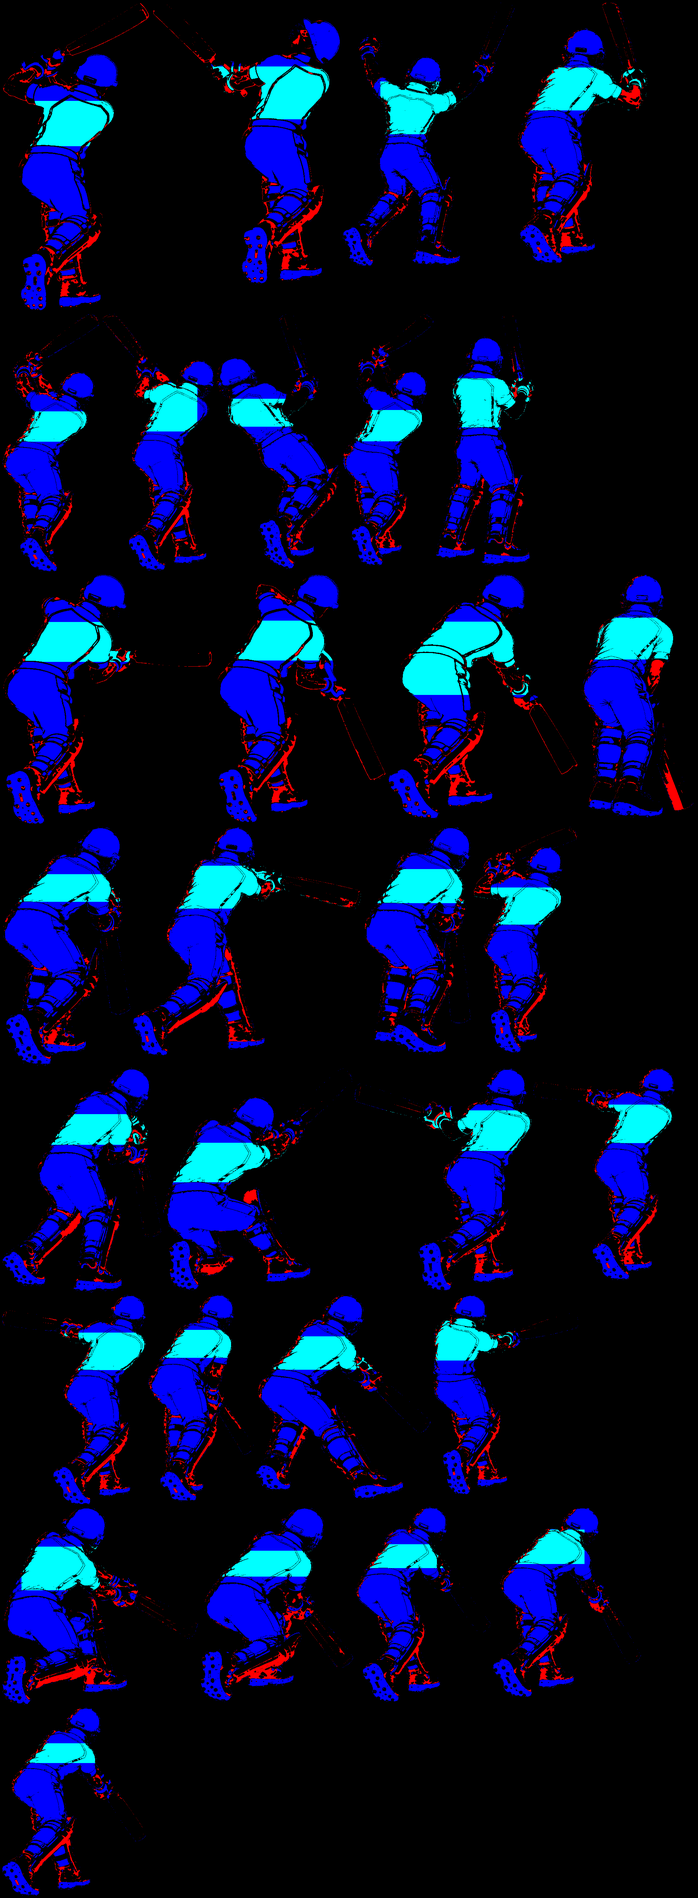
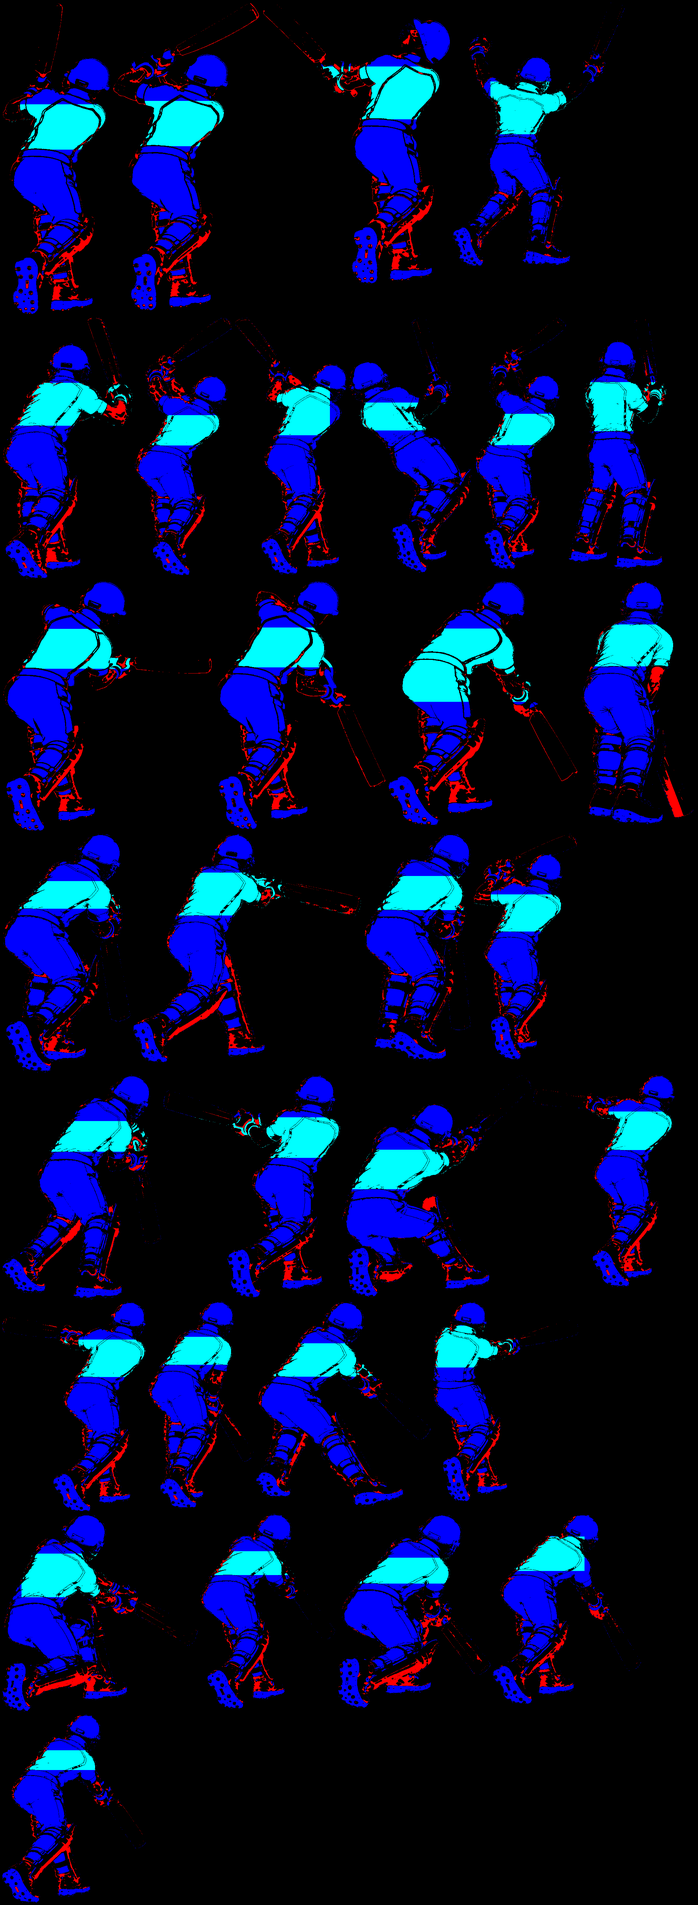
Batter: straight drive ends with the bat held high (new painted pose)
Claude-Session: https://claude.ai/code/session_01NK7tbrKg5PdA6fuyEUPXLd

diff --git a/js/kitsheets.js b/js/kitsheets.js
@@ -2,4 +2,4 @@
 // [x, y, w, h, feet x, feet y] in sheet order; place: the crest (front: [x, y, size, squash x,
 // squash y, tilt]) or the name-and-number print (back: [x, y, width, squash x, squash y, tilt,
 // name dx, dy, number dx, dy]) per frame; shading references for the repaint.
-export const KIT_SHEETS = {"front":{"frames":[[4,4,227,609,115.7,602],[235,4,204,603,108.5,596],[443,4,232,595,100.6,588],[679,4,181,601,90.4,594],[4,617,184,670,98.7,663],[192,617,204,657,107.8,650],[400,617,234,531,161.4,524],[638,617,200,532,104.9,525],[4,1291,201,557,90.7,550],[209,1291,216,579,105.9,572]],"place":[[153,167,36,1,1,0],[377,154,35,1,1,0],[591,154,35,1,1,0],[795,159,32,0.9,1,0],[142,863,31,0.95,1,5],[363,868,31,0.95,1,5],[549,761,34,1,0.85,0],[754,762,31,0.95,0.85,-5],[148,1439,35,1,1,0],[359,1454,36,1,1,0]],"refPx":580,"suit":[0.0376,0.2954,0.587],"trim":[0.5314,0.8456,0.9029],"skin":0.7306,"tones":[0.2955,0.2955,0.8423],"hair":{"beard_full":0.2269,"beard_goatee":0.1998,"beard_long":0.1906,"bun":0.2773,"buzz":0.2963,"cap":0.2815,"curly":0.2799,"dreads":0.2727,"long":0.2593,"messy":0.2999,"part":0.3383,"ponytail":0.2813,"spiky":0.2762},"size":[1024,1874]},"back":{"frames":[[4,4,223,593,111.2,586],[231,4,203,585,111.9,578],[438,4,226,585,125.1,578],[668,4,184,572,61.0,565],[4,601,172,628,61.9,621],[180,601,213,636,106.9,629],[397,601,240,538,146.8,531],[641,601,234,534,104.0,527],[4,1241,213,572,115.0,565],[221,1241,215,586,107.6,579]],"place":[[116.6,158.1,88.0,1.0,1.0,0.4,0,0,0,0],[343.2,149.0,88.0,1.0,1.0,0.8,0,0,0,0],[558.0,148.9,88.0,1.0,1.0,0.0,0,0,0,0],[738,149.2,84.5,0.88,1.0,2,-4,0,-2,0],[95.9,814.9,81.0,0.85,0.95,15.1,0,0,0,0],[306.5,801.6,81.0,0.85,0.95,10.9,0,0,0,0],[502,714.2,86.2,1.0,0.75,-6,0,0,0,0],[741,714.7,86.2,1.0,0.75,-6,0,0,0,0],[117.6,1385.2,88.0,1.0,1.0,0.4,0,0,0,0],[331.2,1393.8,89.8,1.0,1.0,0.8,0,0,0,0]],"refPx":563,"suit":[0.032,0.3087,0.5514],"trim":[0.5231,0.8489,0.9123],"skin":0.7332,"tones":[0.3087,0.3087,0.8455],"hair":{"bun":0.2553,"buzz":0.2918,"cap":0.2709,"curly":0.2702,"dreads":0.2718,"long":0.2647,"messy":0.2757,"part":0.2824,"ponytail":0.2667,"spiky":0.2812},"size":[1024,1831]},"spin-front":{"frames":[[4,4,182,471,90.8,464],[190,4,175,474,103.6,467],[369,4,172,473,91.2,466],[545,4,173,483,87.0,476],[722,4,165,515,62.2,508],[4,523,164,565,80.0,558],[172,523,152,564,71.3,544],[328,523,165,547,53.2,528],[497,523,255,478,85.7,461],[756,523,173,413,62.2,400],[4,1092,264,385,95.9,378],[272,1092,180,405,108.1,398],[456,1092,144,425,76.3,418],[604,1092,179,431,74.7,424],[787,1092,192,438,94.7,431]],"place":[[133,134,26,1,1,0],[324,133,24,1,1,0],[503,130,24,1,1,0],[663,127,24,1,1,0],[848,180,24,1,1,0],[145,711,22,0.9,1,0],[268,717,21,0.9,1,0],[456,715,21,0.9,1,0],[646,705,20,0.9,0.9,10],[872,632,20,0.9,0.85,0],[118,1191,19,0.9,0.85,0],[368,1192,21,1,0.9,0],[524,1199,22,1,0.95,0],[728,1206,26,1,1,0],[918,1204,26,1,1,0]],"refPx":441,"suit":[0.0299,0.3355,0.4715],"trim":[0.548,0.8593,0.9122],"skin":0.7273,"tones":[0.341,0.154,0.8608],"hair":{"beard_full":0.1972,"beard_goatee":0.2001,"beard_long":0.2064,"bun":0.2433,"buzz":0.241,"cap":0.2898,"curly":0.2653,"dreads":0.2535,"long":0.2468,"messy":0.2721,"part":0.2843,"ponytail":0.2781,"spiky":0.2609},"size":[1024,1534]},"spin-back":{"frames":[[4,4,205,533,100.3,526],[213,4,201,526,110.7,519],[418,4,214,510,122.2,503],[636,4,168,520,54.4,513],[808,4,157,568,64.3,561],[4,576,174,536,56.4,529],[182,576,168,528,67.2,521],[354,576,165,520,59.7,498],[523,576,204,489,64.8,467],[731,576,195,427,99.9,420],[4,1116,270,378,98.4,371],[278,1116,189,392,97.5,385],[471,1116,207,396,98.1,389],[682,1116,185,397,98.2,390],[4,1517,193,401,95.6,394]],"place":[[110,150,72.0,1,1,0,0,0,0,0],[326,138,72.0,1,1,0,0,0,0,0],[539,138,72.0,0.95,1,0,0,0,0,0],[711,141,72.0,0.95,1,11,0,0,0,0],[894,208,72.0,0.95,1,5,0,0,0,0],[100,760,72.0,0.95,1,10,0,0,0,0],[266,753,72.0,0.95,1,10,0,0,0,0],[451,742,72.0,0.95,0.95,18,0,0,0,0],[637,718,72.0,0.95,0.8,20,0,0,0,0],[853,677,72.0,0.95,0.8,12,0,0,0,0],[115,1188,72.0,1,0.7,-6,0,0,0,0],[362,1201,72.0,1,0.75,-10,0,0,0,0],[558,1210,72.0,1,0.85,-6,0,0,0,0],[773,1218,72.0,1,1,0,0,0,0,0],[104,1643,72.0,1,1,0,0,0,0,0]],"refPx":502,"suit":[0.0255,0.3304,0.4621],"trim":[0.5425,0.8472,0.9129],"skin":0.735,"tones":[0.3359,0.1507,0.8497],"hair":{"bun":0.2768,"buzz":0.2522,"cap":0.3009,"curly":0.2524,"dreads":0.3474,"long":0.2919,"messy":0.2526,"part":0.2321,"ponytail":0.2864,"spiky":0.2346},"size":[1024,1922]},"bat-back":{"frames":[[4,4,248,534,127.4,527],[256,4,291,536,114.4,529],[551,4,247,535,126.7,528],[802,4,283,538,117.1,531],[1089,4,237,534,113.5,527],[1330,4,310,635,102.2,628],[4,643,438,523,123.2,516],[446,643,394,523,242.9,516],[844,643,398,524,207.5,517],[1246,643,243,468,91.2,461],[1493,643,229,458,81.5,451],[1726,643,197,456,73.9,449],[4,1171,213,517,108.2,510],[221,1171,264,515,121.3,508],[489,1171,381,501,205.5,494],[874,1171,329,471,80.2,464],[1207,1171,201,510,95.2,503],[1412,1171,161,645,75.2,638],[1577,1171,302,505,119.4,498],[4,1820,340,405,92.8,398],[348,1820,373,419,82.2,412],[725,1820,235,523,91.4,516],[964,1820,195,665,107.2,658],[1163,1820,336,523,170.4,516],[1503,1820,388,542,201.0,535],[4,2489,364,523,108.1,516]],"place":[[110.5,145,87.2,1,1,16.3,0,0,0,0],[366.5,144,89.6,1,1,21.6,0,0,0,0],[660.0,146,86.4,1,1,17.1,0,0,0,0],[905.0,148,87.2,1,1,18.6,0,0,0,0],[1199.0,145,88.0,1,1,19.2,0,0,0,0],[1473.0,237,91.2,1,1,14.7,0,0,0,0],[157.0,762,93.6,1,1,3.2,0,0,0,0],[761.5,781,94.4,1,1,10.1,0,0,0,0],[1171.0,781,90.4,1,1,9.6,0,0,0,0],[1355.0,760,84.0,1,1,1.5,0,0,0,0],[1592.0,760,91.2,1,1,-0.9,0,0,0,0],[1815.0,767,96.0,1,1,3.4,0,0,0,0],[122.5,1293,85.6,1,1,16.8,0,0,0,0],[324.5,1303,96.8,1,1,4.1,0,0,0,0],[597.0,1301,95.2,1,1,8.8,0,0,0,0],[972.5,1302,96.0,1,1,7.3,0,0,0,0],[1324.5,1307,92.0,1,1,6.0,0,0,0,0],[1483.5,1450,92.0,1,1,1.6,0,0,0,0],[1760.5,1408,87.2,1,1,6.1,0,0,0,0],[114.0,1958,103.2,1,1,6.5,0,0,0,0],[504.5,1956,94.4,1,1,-0.9,0,0,0,0],[824.5,1941,94.4,1,1,7.8,0,0,0,0],[1083.5,2081,88.0,1,1,9.2,0,0,0,0],[1261.5,1955,98.4,1,1,11.6,0,0,0,0],[1822.0,1972,83.2,1,1,11.6,0,0,0,0],[88.0,2611,92.0,1,1,0.4,0,0,0,0]],"refPx":522,"suit":[0.0269,0.3529,0.5925],"trim":[0.5451,0.8592,0.9209],"skin":0.6414,"tones":[0.3586,0.2,0.8608],"hair":{},"size":[2048,3016]},"field":{"frames":[[4,4,425,453,214.6,446],[433,4,376,459,180.8,452],[813,4,407,455,200.5,448],[1224,4,294,543,132.5,536],[1522,4,266,555,119.8,548],[4,563,282,545,146.0,538],[290,563,323,540,153.3,533],[617,563,416,478,255.7,471],[1037,563,399,471,239.2,464],[1440,563,416,479,226.6,472],[4,1112,498,472,240.3,465],[506,1112,334,461,194.5,454],[844,1112,389,467,201.6,460],[1237,1112,290,468,134.9,461],[1531,1112,237,468,118.4,461],[4,1588,331,343,227.7,336],[339,1588,473,278,360.6,271],[816,1588,480,172,199.7,165],[1300,1588,337,172,238.3,165],[4,1935,444,498,209.6,491],[452,1935,293,588,174.3,581],[749,1935,424,503,212.8,496],[1177,1935,325,396,172.6,389],[1506,1935,354,418,177.7,411],[4,2527,358,410,163.6,403],[366,2527,433,269,300.7,262],[803,2527,313,384,165.7,377],[1120,2527,314,393,165.6,386],[1438,2527,418,382,217.0,375],[4,2941,455,291,300.0,284],[463,2941,279,574,142.6,567],[746,2941,283,525,142.6,518],[1033,2941,330,573,155.7,566],[1367,2941,288,573,148.0,566],[1659,2941,234,574,118.0,567],[4,3519,232,571,109.8,564],[240,3519,219,572,103.9,565],[463,3519,236,568,117.4,561],[703,3519,228,575,111.3,568],[935,3519,240,570,118.5,563],[1179,3519,238,570,119.8,563],[1421,3519,223,572,107.1,565]],"place":[[10,10,0,1,1,0,0,0,0,0],[439,10,0,1,1,0,0,0,0,0],[1017.0,139,100.8,1,1,1.9,0,0,0,0],[1394.5,134,101.6,1,1,22.4,0,0,0,0],[1652.0,138,104.0,1,1,11.0,0,0,0,0],[174.0,696,97.6,1,1,7.0,0,0,0,0],[458.5,691,98.4,1,1,11.3,0,0,0,0],[623,569,0,1,1,0,0,0,0,0],[1043,569,0,1,1,0,0,0,0,0],[1446,569,0,1,1,0,0,0,0,0],[10,1118,0,1,1,0,0,0,0,0],[512,1118,0,1,1,0,0,0,0,0],[850,1117,0,1,1,0,0,0,0,0],[1405.0,1231,90.4,1,1,15.0,0,0,0,0],[1673.0,1223,85.6,1,1,3.9,0,0,0,0],[10,1594,0,1,1,0,0,0,0,0],[345,1594,0,1,1,0,0,0,0,0],[822,1594,0,1,1,0,0,0,0,0],[1306,1594,0,1,1,0,0,0,0,0],[10,1941,0,1,1,0,0,0,0,0],[458,1941,0,1,1,0,0,0,0,0],[755,1941,0,1,1,0,0,0,0,0],[1183,1941,0,1,1,0,0,0,0,0],[1512,1941,0,1,1,0,0,0,0,0],[10,2533,0,1,1,0,0,0,0,0],[372,2533,0,1,1,0,0,0,0,0],[973.5,2643,76.8,1,1,1.8,0,0,0,0],[1296.5,2644,77.6,1,1,8.0,0,0,0,0],[1690.0,2629,61.6,1,1,16.7,0,0,0,0],[10,2947,0,1,1,0,0,0,0,0],[469,2947,0,1,1,0,0,0,0,0],[752,2947,0,1,1,0,0,0,0,0],[1039,2947,0,1,1,0,0,0,0,0],[1373,2947,0,1,1,0,0,0,0,0],[1665,2947,0,1,1,0,0,0,0,0],[10,3525,0,1,1,0,0,0,0,0],[246,3525,0,1,1,0,0,0,0,0],[469,3525,0,1,1,0,0,0,0,0],[709,3525,0,1,1,0,0,0,0,0],[941,3525,0,1,1,0,0,0,0,0],[1185,3525,0,1,1,0,0,0,0,0],[1427,3525,0,1,1,0,0,0,0,0]],"refPx":441,"suit":[0.0644,0.3368,0.6113],"trim":[0.5563,0.8516,0.9209],"skin":0.7707,"tones":[0.3422,0.2038,0.8539],"hair":{},"size":[2048,4098]},"bat-paint":{"frames":[[1516,6,383,768,104.4,759.3],[635,920,363,749,196.1,740.5],[1278,920,290,740,166.7,731.6],[1387,2426,309,663,110.5,655.4],[6,5009,423,554,93.0,547.5],[6,920,288,759,123.8,749.4],[1043,4422,397,572,93.0,565.3],[1004,920,268,740,87.6,731.6],[6,3799,423,617,231.8,608.8],[300,920,329,754,180.4,745.5],[435,3799,310,607,103.3,599.9],[1565,3134,415,622,247.8,614.8],[1040,3134,519,654,269.9,645.5],[6,2426,377,702,99.8,694.0],[1066,2426,315,668,181.6,659.3],[6,3134,467,659,242.0,651.4],[751,3799,512,601,324.2,594.0],[1446,4422,435,558,77.9,551.4],[389,2426,671,672,148.8,664.3],[1269,3799,428,587,91.8,580.1],[587,4422,450,572,56.9,565.3],[6,4422,575,581,50.2,573.2],[479,3134,555,654,126.1,644.5],[1005,6,505,777,201.6,766.2],[1139,1685,558,718,100.1,708.8],[630,1685,503,730,92.1,720.7],[6,6,434,908,164.9,895.9],[6,1685,618,735,93.6,724.6],[446,6,553,830,370.9,820.7],[1703,1685,331,714,169.3,705.9]],"place":[[1691.0,261.0,69.1,1,1,1.8,0,0,0,0],[753.5,1211.0,52.6,1,1,-2.0,0,0,0,0],[1417.0,1182.0,51.8,1,1,1.0,0,0,0,0],[1547.5,2658.5,54.0,1,1,1.2,0,0,0,0],[189.5,5144.0,56.9,1,1,3.8,0,0,0,0],[160.5,1251.5,51.1,1,1,1.6,0,0,0,0],[1195.5,4566.0,58.3,1,1,2.3,0,0,0,0],[1148.5,1249.0,49.7,1,1,1.1,0,0,0,0],[327.5,3965.0,54.0,1,1,1.0,0,0,0,0],[509.5,1194.5,46.8,1,1,-1.0,0,0,0,0],[590.5,3943.0,56.9,1,1,2.2,0,0,0,0],[1877.0,3297.5,50.4,1,1,1.3,0,0,0,0],[1447.5,3317.5,62.6,1,1,-0.4,0,0,0,0],[209.0,2605.5,80.6,1,1,4.8,0,0,0,0],[1246.0,2600.0,72.0,1,1,2.7,0,0,0,0],[285.5,3314.0,75.6,1,1,2.6,0,0,0,0],[943.5,3970.0,68.4,1,1,4.1,0,0,0,0],[1635.0,4538.5,51.8,1,1,2.3,0,0,0,0],[650.0,2603.0,66.2,1,1,1.7,0,0,0,0],[1354.0,3930.5,49.0,1,1,2.1,0,0,0,0],[799.5,4588.0,75.6,1,1,3.6,0,0,0,0],[171.0,4602.0,66.2,1,1,1.7,0,0,0,0],[647.5,3411.0,74.2,1,1,3.0,0,0,0,0],[1209.0,316.5,56.2,1,1,2.5,0,0,0,0],[1334.0,1931.5,90.7,1,1,8.7,0,0,0,0],[835.5,1879.5,74.2,1,1,3.5,0,0,0,0],[212.5,362.5,62.6,1,1,1.4,0,0,0,0],[214.0,1883.5,77.8,1,1,2.9,0,0,0,0],[843.5,272.5,65.5,1,1,-0.3,0,0,0,0],[1864.0,1873.5,67.7,1,1,1.9,0,0,0,0]],"names":{"backlift":0,"leave1":1,"leave2":2,"drive1":3,"drive2":4,"drive3":5,"straight1":6,"straight2":7,"ondrive1":8,"ondrive2":9,"cover1":10,"pull1":11,"pull2":12,"def1":13,"def2":14,"def3":15,"cut1":16,"cut2":17,"cut3":18,"cut4":19,"rsweep1":20,"rsweep2":21,"rsweep3":22,"celebrate":23,"cover0":24,"cover2":25,"cover3":26,"cutflat":27,"loft1":28,"ready":29},"refPx":705.4,"suit":[0.0269,0.3529,0.5925],"trim":[0.5451,0.8592,0.9209],"skin":0.6519,"tones":[0.3157,0.15785,0.8487],"hair":{},"size":[2048,5569],"hsv":[[216.3835,0.9944,0.8569],[216.3835,0.9944,0.8569],[55.8098,0.988,0.9882]]}};
+export const KIT_SHEETS = {"front":{"frames":[[4,4,227,609,115.7,602],[235,4,204,603,108.5,596],[443,4,232,595,100.6,588],[679,4,181,601,90.4,594],[4,617,184,670,98.7,663],[192,617,204,657,107.8,650],[400,617,234,531,161.4,524],[638,617,200,532,104.9,525],[4,1291,201,557,90.7,550],[209,1291,216,579,105.9,572]],"place":[[153,167,36,1,1,0],[377,154,35,1,1,0],[591,154,35,1,1,0],[795,159,32,0.9,1,0],[142,863,31,0.95,1,5],[363,868,31,0.95,1,5],[549,761,34,1,0.85,0],[754,762,31,0.95,0.85,-5],[148,1439,35,1,1,0],[359,1454,36,1,1,0]],"refPx":580,"suit":[0.0376,0.2954,0.587],"trim":[0.5314,0.8456,0.9029],"skin":0.7306,"tones":[0.2955,0.2955,0.8423],"hair":{"beard_full":0.2269,"beard_goatee":0.1998,"beard_long":0.1906,"bun":0.2773,"buzz":0.2963,"cap":0.2815,"curly":0.2799,"dreads":0.2727,"long":0.2593,"messy":0.2999,"part":0.3383,"ponytail":0.2813,"spiky":0.2762},"size":[1024,1874]},"back":{"frames":[[4,4,223,593,111.2,586],[231,4,203,585,111.9,578],[438,4,226,585,125.1,578],[668,4,184,572,61.0,565],[4,601,172,628,61.9,621],[180,601,213,636,106.9,629],[397,601,240,538,146.8,531],[641,601,234,534,104.0,527],[4,1241,213,572,115.0,565],[221,1241,215,586,107.6,579]],"place":[[116.6,158.1,88.0,1.0,1.0,0.4,0,0,0,0],[343.2,149.0,88.0,1.0,1.0,0.8,0,0,0,0],[558.0,148.9,88.0,1.0,1.0,0.0,0,0,0,0],[738,149.2,84.5,0.88,1.0,2,-4,0,-2,0],[95.9,814.9,81.0,0.85,0.95,15.1,0,0,0,0],[306.5,801.6,81.0,0.85,0.95,10.9,0,0,0,0],[502,714.2,86.2,1.0,0.75,-6,0,0,0,0],[741,714.7,86.2,1.0,0.75,-6,0,0,0,0],[117.6,1385.2,88.0,1.0,1.0,0.4,0,0,0,0],[331.2,1393.8,89.8,1.0,1.0,0.8,0,0,0,0]],"refPx":563,"suit":[0.032,0.3087,0.5514],"trim":[0.5231,0.8489,0.9123],"skin":0.7332,"tones":[0.3087,0.3087,0.8455],"hair":{"bun":0.2553,"buzz":0.2918,"cap":0.2709,"curly":0.2702,"dreads":0.2718,"long":0.2647,"messy":0.2757,"part":0.2824,"ponytail":0.2667,"spiky":0.2812},"size":[1024,1831]},"spin-front":{"frames":[[4,4,182,471,90.8,464],[190,4,175,474,103.6,467],[369,4,172,473,91.2,466],[545,4,173,483,87.0,476],[722,4,165,515,62.2,508],[4,523,164,565,80.0,558],[172,523,152,564,71.3,544],[328,523,165,547,53.2,528],[497,523,255,478,85.7,461],[756,523,173,413,62.2,400],[4,1092,264,385,95.9,378],[272,1092,180,405,108.1,398],[456,1092,144,425,76.3,418],[604,1092,179,431,74.7,424],[787,1092,192,438,94.7,431]],"place":[[133,134,26,1,1,0],[324,133,24,1,1,0],[503,130,24,1,1,0],[663,127,24,1,1,0],[848,180,24,1,1,0],[145,711,22,0.9,1,0],[268,717,21,0.9,1,0],[456,715,21,0.9,1,0],[646,705,20,0.9,0.9,10],[872,632,20,0.9,0.85,0],[118,1191,19,0.9,0.85,0],[368,1192,21,1,0.9,0],[524,1199,22,1,0.95,0],[728,1206,26,1,1,0],[918,1204,26,1,1,0]],"refPx":441,"suit":[0.0299,0.3355,0.4715],"trim":[0.548,0.8593,0.9122],"skin":0.7273,"tones":[0.341,0.154,0.8608],"hair":{"beard_full":0.1972,"beard_goatee":0.2001,"beard_long":0.2064,"bun":0.2433,"buzz":0.241,"cap":0.2898,"curly":0.2653,"dreads":0.2535,"long":0.2468,"messy":0.2721,"part":0.2843,"ponytail":0.2781,"spiky":0.2609},"size":[1024,1534]},"spin-back":{"frames":[[4,4,205,533,100.3,526],[213,4,201,526,110.7,519],[418,4,214,510,122.2,503],[636,4,168,520,54.4,513],[808,4,157,568,64.3,561],[4,576,174,536,56.4,529],[182,576,168,528,67.2,521],[354,576,165,520,59.7,498],[523,576,204,489,64.8,467],[731,576,195,427,99.9,420],[4,1116,270,378,98.4,371],[278,1116,189,392,97.5,385],[471,1116,207,396,98.1,389],[682,1116,185,397,98.2,390],[4,1517,193,401,95.6,394]],"place":[[110,150,72.0,1,1,0,0,0,0,0],[326,138,72.0,1,1,0,0,0,0,0],[539,138,72.0,0.95,1,0,0,0,0,0],[711,141,72.0,0.95,1,11,0,0,0,0],[894,208,72.0,0.95,1,5,0,0,0,0],[100,760,72.0,0.95,1,10,0,0,0,0],[266,753,72.0,0.95,1,10,0,0,0,0],[451,742,72.0,0.95,0.95,18,0,0,0,0],[637,718,72.0,0.95,0.8,20,0,0,0,0],[853,677,72.0,0.95,0.8,12,0,0,0,0],[115,1188,72.0,1,0.7,-6,0,0,0,0],[362,1201,72.0,1,0.75,-10,0,0,0,0],[558,1210,72.0,1,0.85,-6,0,0,0,0],[773,1218,72.0,1,1,0,0,0,0,0],[104,1643,72.0,1,1,0,0,0,0,0]],"refPx":502,"suit":[0.0255,0.3304,0.4621],"trim":[0.5425,0.8472,0.9129],"skin":0.735,"tones":[0.3359,0.1507,0.8497],"hair":{"bun":0.2768,"buzz":0.2522,"cap":0.3009,"curly":0.2524,"dreads":0.3474,"long":0.2919,"messy":0.2526,"part":0.2321,"ponytail":0.2864,"spiky":0.2346},"size":[1024,1922]},"bat-back":{"frames":[[4,4,248,534,127.4,527],[256,4,291,536,114.4,529],[551,4,247,535,126.7,528],[802,4,283,538,117.1,531],[1089,4,237,534,113.5,527],[1330,4,310,635,102.2,628],[4,643,438,523,123.2,516],[446,643,394,523,242.9,516],[844,643,398,524,207.5,517],[1246,643,243,468,91.2,461],[1493,643,229,458,81.5,451],[1726,643,197,456,73.9,449],[4,1171,213,517,108.2,510],[221,1171,264,515,121.3,508],[489,1171,381,501,205.5,494],[874,1171,329,471,80.2,464],[1207,1171,201,510,95.2,503],[1412,1171,161,645,75.2,638],[1577,1171,302,505,119.4,498],[4,1820,340,405,92.8,398],[348,1820,373,419,82.2,412],[725,1820,235,523,91.4,516],[964,1820,195,665,107.2,658],[1163,1820,336,523,170.4,516],[1503,1820,388,542,201.0,535],[4,2489,364,523,108.1,516]],"place":[[110.5,145,87.2,1,1,16.3,0,0,0,0],[366.5,144,89.6,1,1,21.6,0,0,0,0],[660.0,146,86.4,1,1,17.1,0,0,0,0],[905.0,148,87.2,1,1,18.6,0,0,0,0],[1199.0,145,88.0,1,1,19.2,0,0,0,0],[1473.0,237,91.2,1,1,14.7,0,0,0,0],[157.0,762,93.6,1,1,3.2,0,0,0,0],[761.5,781,94.4,1,1,10.1,0,0,0,0],[1171.0,781,90.4,1,1,9.6,0,0,0,0],[1355.0,760,84.0,1,1,1.5,0,0,0,0],[1592.0,760,91.2,1,1,-0.9,0,0,0,0],[1815.0,767,96.0,1,1,3.4,0,0,0,0],[122.5,1293,85.6,1,1,16.8,0,0,0,0],[324.5,1303,96.8,1,1,4.1,0,0,0,0],[597.0,1301,95.2,1,1,8.8,0,0,0,0],[972.5,1302,96.0,1,1,7.3,0,0,0,0],[1324.5,1307,92.0,1,1,6.0,0,0,0,0],[1483.5,1450,92.0,1,1,1.6,0,0,0,0],[1760.5,1408,87.2,1,1,6.1,0,0,0,0],[114.0,1958,103.2,1,1,6.5,0,0,0,0],[504.5,1956,94.4,1,1,-0.9,0,0,0,0],[824.5,1941,94.4,1,1,7.8,0,0,0,0],[1083.5,2081,88.0,1,1,9.2,0,0,0,0],[1261.5,1955,98.4,1,1,11.6,0,0,0,0],[1822.0,1972,83.2,1,1,11.6,0,0,0,0],[88.0,2611,92.0,1,1,0.4,0,0,0,0]],"refPx":522,"suit":[0.0269,0.3529,0.5925],"trim":[0.5451,0.8592,0.9209],"skin":0.6414,"tones":[0.3586,0.2,0.8608],"hair":{},"size":[2048,3016]},"field":{"frames":[[4,4,425,453,214.6,446],[433,4,376,459,180.8,452],[813,4,407,455,200.5,448],[1224,4,294,543,132.5,536],[1522,4,266,555,119.8,548],[4,563,282,545,146.0,538],[290,563,323,540,153.3,533],[617,563,416,478,255.7,471],[1037,563,399,471,239.2,464],[1440,563,416,479,226.6,472],[4,1112,498,472,240.3,465],[506,1112,334,461,194.5,454],[844,1112,389,467,201.6,460],[1237,1112,290,468,134.9,461],[1531,1112,237,468,118.4,461],[4,1588,331,343,227.7,336],[339,1588,473,278,360.6,271],[816,1588,480,172,199.7,165],[1300,1588,337,172,238.3,165],[4,1935,444,498,209.6,491],[452,1935,293,588,174.3,581],[749,1935,424,503,212.8,496],[1177,1935,325,396,172.6,389],[1506,1935,354,418,177.7,411],[4,2527,358,410,163.6,403],[366,2527,433,269,300.7,262],[803,2527,313,384,165.7,377],[1120,2527,314,393,165.6,386],[1438,2527,418,382,217.0,375],[4,2941,455,291,300.0,284],[463,2941,279,574,142.6,567],[746,2941,283,525,142.6,518],[1033,2941,330,573,155.7,566],[1367,2941,288,573,148.0,566],[1659,2941,234,574,118.0,567],[4,3519,232,571,109.8,564],[240,3519,219,572,103.9,565],[463,3519,236,568,117.4,561],[703,3519,228,575,111.3,568],[935,3519,240,570,118.5,563],[1179,3519,238,570,119.8,563],[1421,3519,223,572,107.1,565]],"place":[[10,10,0,1,1,0,0,0,0,0],[439,10,0,1,1,0,0,0,0,0],[1017.0,139,100.8,1,1,1.9,0,0,0,0],[1394.5,134,101.6,1,1,22.4,0,0,0,0],[1652.0,138,104.0,1,1,11.0,0,0,0,0],[174.0,696,97.6,1,1,7.0,0,0,0,0],[458.5,691,98.4,1,1,11.3,0,0,0,0],[623,569,0,1,1,0,0,0,0,0],[1043,569,0,1,1,0,0,0,0,0],[1446,569,0,1,1,0,0,0,0,0],[10,1118,0,1,1,0,0,0,0,0],[512,1118,0,1,1,0,0,0,0,0],[850,1117,0,1,1,0,0,0,0,0],[1405.0,1231,90.4,1,1,15.0,0,0,0,0],[1673.0,1223,85.6,1,1,3.9,0,0,0,0],[10,1594,0,1,1,0,0,0,0,0],[345,1594,0,1,1,0,0,0,0,0],[822,1594,0,1,1,0,0,0,0,0],[1306,1594,0,1,1,0,0,0,0,0],[10,1941,0,1,1,0,0,0,0,0],[458,1941,0,1,1,0,0,0,0,0],[755,1941,0,1,1,0,0,0,0,0],[1183,1941,0,1,1,0,0,0,0,0],[1512,1941,0,1,1,0,0,0,0,0],[10,2533,0,1,1,0,0,0,0,0],[372,2533,0,1,1,0,0,0,0,0],[973.5,2643,76.8,1,1,1.8,0,0,0,0],[1296.5,2644,77.6,1,1,8.0,0,0,0,0],[1690.0,2629,61.6,1,1,16.7,0,0,0,0],[10,2947,0,1,1,0,0,0,0,0],[469,2947,0,1,1,0,0,0,0,0],[752,2947,0,1,1,0,0,0,0,0],[1039,2947,0,1,1,0,0,0,0,0],[1373,2947,0,1,1,0,0,0,0,0],[1665,2947,0,1,1,0,0,0,0,0],[10,3525,0,1,1,0,0,0,0,0],[246,3525,0,1,1,0,0,0,0,0],[469,3525,0,1,1,0,0,0,0,0],[709,3525,0,1,1,0,0,0,0,0],[941,3525,0,1,1,0,0,0,0,0],[1185,3525,0,1,1,0,0,0,0,0],[1427,3525,0,1,1,0,0,0,0,0]],"refPx":441,"suit":[0.0644,0.3368,0.6113],"trim":[0.5563,0.8516,0.9209],"skin":0.7707,"tones":[0.3422,0.2038,0.8539],"hair":{},"size":[2048,4098]},"bat-paint":{"frames":[[6,931,383,768,104.4,759.3],[1024,931,363,749,196.1,740.5],[1667,931,290,740,166.7,731.6],[1387,2446,309,663,110.5,655.4],[6,5029,423,554,93.0,547.5],[395,931,288,759,123.8,749.4],[587,4442,397,572,93.0,565.3],[1393,931,268,740,87.6,731.6],[6,3819,423,617,231.8,608.8],[689,931,329,754,180.4,745.5],[435,3819,310,607,103.3,599.9],[1565,3154,415,622,247.8,614.8],[479,3154,519,654,269.9,645.5],[6,2446,377,702,99.8,694.0],[1066,2446,315,668,181.6,659.3],[6,3154,467,659,242.0,651.4],[751,3819,512,601,324.2,594.0],[1446,4442,435,558,77.9,551.4],[389,2446,671,672,148.8,664.3],[1269,3819,428,587,91.8,580.1],[990,4442,450,572,56.9,565.3],[6,4442,575,581,50.2,573.2],[1004,3154,555,654,126.1,644.5],[1328,6,505,777,201.6,766.2],[1139,1705,558,718,100.1,708.8],[630,1705,503,730,92.1,720.7],[329,6,434,908,164.9,895.9],[6,1705,618,735,93.6,724.6],[769,6,553,830,370.9,820.7],[6,6,317,919,141.9,905.8],[1703,1705,331,714,169.3,705.9]],"place":[[181.0,1186.0,69.1,1,1,1.8,0,0,0,0],[1142.5,1222.0,52.6,1,1,-2.0,0,0,0,0],[1806.0,1193.0,51.8,1,1,1.0,0,0,0,0],[1547.5,2678.5,54.0,1,1,1.2,0,0,0,0],[189.5,5164.0,56.9,1,1,3.8,0,0,0,0],[549.5,1262.5,51.1,1,1,1.6,0,0,0,0],[739.5,4586.0,58.3,1,1,2.3,0,0,0,0],[1537.5,1260.0,49.7,1,1,1.1,0,0,0,0],[327.5,3985.0,54.0,1,1,1.0,0,0,0,0],[898.5,1205.5,46.8,1,1,-1.0,0,0,0,0],[590.2,3963.0,56.5,1,1,2.0,0,0,0,0],[1877.0,3317.5,50.4,1,1,1.3,0,0,0,0],[886.5,3337.5,62.6,1,1,-0.4,0,0,0,0],[209.0,2625.5,80.6,1,1,4.8,0,0,0,0],[1246.0,2620.0,72.0,1,1,2.7,0,0,0,0],[285.5,3334.0,75.6,1,1,2.6,0,0,0,0],[943.5,3990.0,68.4,1,1,4.1,0,0,0,0],[1635.0,4558.5,51.8,1,1,2.3,0,0,0,0],[650.0,2623.0,66.2,1,1,1.7,0,0,0,0],[1354.0,3950.5,49.0,1,1,2.1,0,0,0,0],[1202.5,4608.0,75.6,1,1,3.6,0,0,0,0],[171.0,4622.0,66.2,1,1,1.7,0,0,0,0],[1172.5,3431.0,74.2,1,1,3.0,0,0,0,0],[1532.0,316.5,56.2,1,1,2.5,0,0,0,0],[1334.0,1951.5,90.7,1,1,8.7,0,0,0,0],[835.5,1899.5,74.2,1,1,3.5,0,0,0,0],[535.5,362.5,62.6,1,1,1.4,0,0,0,0],[214.0,1903.5,77.8,1,1,2.9,0,0,0,0],[1166.5,272.5,65.5,1,1,-0.3,0,0,0,0],[185.5,372.5,65.5,1,1,1.4,0,0,0,0],[1864.0,1893.5,67.7,1,1,1.9,0,0,0,0]],"names":{"backlift":0,"leave1":1,"leave2":2,"drive1":3,"drive2":4,"drive3":5,"straight1":6,"straight2":7,"ondrive1":8,"ondrive2":9,"cover1":10,"pull1":11,"pull2":12,"def1":13,"def2":14,"def3":15,"cut1":16,"cut2":17,"cut3":18,"cut4":19,"rsweep1":20,"rsweep2":21,"rsweep3":22,"celebrate":23,"cover0":24,"cover2":25,"cover3":26,"cutflat":27,"loft1":28,"straight3":29,"ready":30},"refPx":705.4,"suit":[0.0269,0.3529,0.5925],"trim":[0.5451,0.8592,0.9209],"skin":0.6504,"tones":[0.3158,0.1579,0.8482],"hair":{},"size":[2048,5589],"hsv":[[216.341,0.9944,0.8549],[216.341,0.9944,0.8549],[55.7578,0.988,0.9882]]}};

diff --git a/js/batsprite.js b/js/batsprite.js
@@ -32,14 +32,14 @@ const FRAMES = {
 };
 
 // the frames the kit sheet has and the old per-team sheets (and the batter seen from the front) don't
-export const OLD_FRAME = { cut4: 'cut3', rsweep1: 'cut1', rsweep2: 'cut2', rsweep3: 'cut3', cover1: 'drive2', straight1: 'drive2', straight2: 'drive3', ondrive1: 'drive2', ondrive2: 'drive3', cover0: 'drive2', cover2: 'drive2', cover3: 'drive3', cutflat: 'cut2', loft1: 'drive3' };
+export const OLD_FRAME = { cut4: 'cut3', rsweep1: 'cut1', rsweep2: 'cut2', rsweep3: 'cut3', cover1: 'drive2', straight1: 'drive2', straight2: 'drive3', ondrive1: 'drive2', ondrive2: 'drive3', cover0: 'drive2', cover2: 'drive2', cover3: 'drive3', cutflat: 'cut2', loft1: 'drive3', straight3: 'drive3' };
 
 // frame, ms on screen. The swing starts when the finger lifts, which is the moment of contact,
 // so the downswing is brief and the contact frame lands almost at once.
 const SEQ = {
   drive: [['drive1', 25], ['drive2', 35], ['drive3', Infinity]],
   ondrive: [['ondrive1', 160], ['ondrive2', Infinity]], // through the ball, round to the leg side
-  straight: [['straight1', 160], ['straight2', Infinity]], // bat through the line, high finish
+  straight: [['straight1', 160], ['straight3', Infinity]], // bat through the line, a high finish with the bat held up
   loft: [['cover0', 30], ['cover2', 40], ['loft1', Infinity]], // a lifted drive: through the ball, eyes up, a high finish
   cover: [['cover0', 30], ['cover2', 40], ['cover3', Infinity]], // down, through the ball, high finish: off side
   pull: [['pull1', 150], ['pull2', Infinity]], // swung across to leg, through

diff --git a/tools/build_bat_paint.py b/tools/build_bat_paint.py
@@ -22,7 +22,7 @@ G = 0.85                                  # the whole set's size (1.0 = the stan
 READY_SCALE = 840 / 1575 * G              # the stance (its source figure is 1575 px tall)
 SCALE = {'464df84f': 1.10 * G, 'f628f0f7': 1.10 * G}   # sheets drawn on the wide canvas; every other sheet is on the 1536 x 1024 canvas
 DEFAULT_SCALE = 0.94 * G
-SCALE.update({'c0v1drv1': 0.81 * G, 'c0v2cut1': 0.81 * G, 'c0v3loft': 0.81 * G})   # (the 2576 x 1438 sheets)
+SCALE.update({'c0v1drv1': 0.81 * G, 'c0v2cut1': 0.81 * G, 'c0v3loft': 0.81 * G, 'c0v4str': 0.81 * G})   # (the 2576 x 1438 sheets)
 DIL = {'f628f0f7': 2}                     # (its figures kneel close together: a small gap between them)
 FRAMES = {
     'backlift': ('464df84f', 1), 'leave1': ('2965e2d6', 0), 'leave2': ('2965e2d6', 1),
@@ -31,7 +31,7 @@ FRAMES = {
     'pull1': ('2236f518', 0), 'pull2': ('b506964d', 0), 'def1': ('df0bc565', 0), 'def2': ('df0bc565', 1), 'def3': ('c3007d6e', 1),
     'cut1': ('b506964d', 1), 'cut2': ('54ab15c9', 0), 'cut3': ('464df84f', 2), 'cut4': ('f1c2ccd0', 1),
     'rsweep1': ('f628f0f7', 0), 'rsweep2': ('f628f0f7', 1), 'rsweep3': ('f628f0f7', 2), 'celebrate': ('efc0e85c', 0),
-    'cover0': ('c0v1drv1', 0), 'cover2': ('c0v1drv1', 1), 'cover3': ('c0v1drv1', 2), 'cutflat': ('c0v2cut1', 1), 'loft1': ('c0v3loft', 2),
+    'cover0': ('c0v1drv1', 0), 'cover2': ('c0v1drv1', 1), 'cover3': ('c0v1drv1', 2), 'cutflat': ('c0v2cut1', 1), 'loft1': ('c0v3loft', 2), 'straight3': ('c0v4str', 2),
 }
 READY = 'tools/kit/bat-ready-source.png'
 # where the shirt back is, for the poses the colours alone get wrong: (left, right, top, bottom) as fractions of the frame
